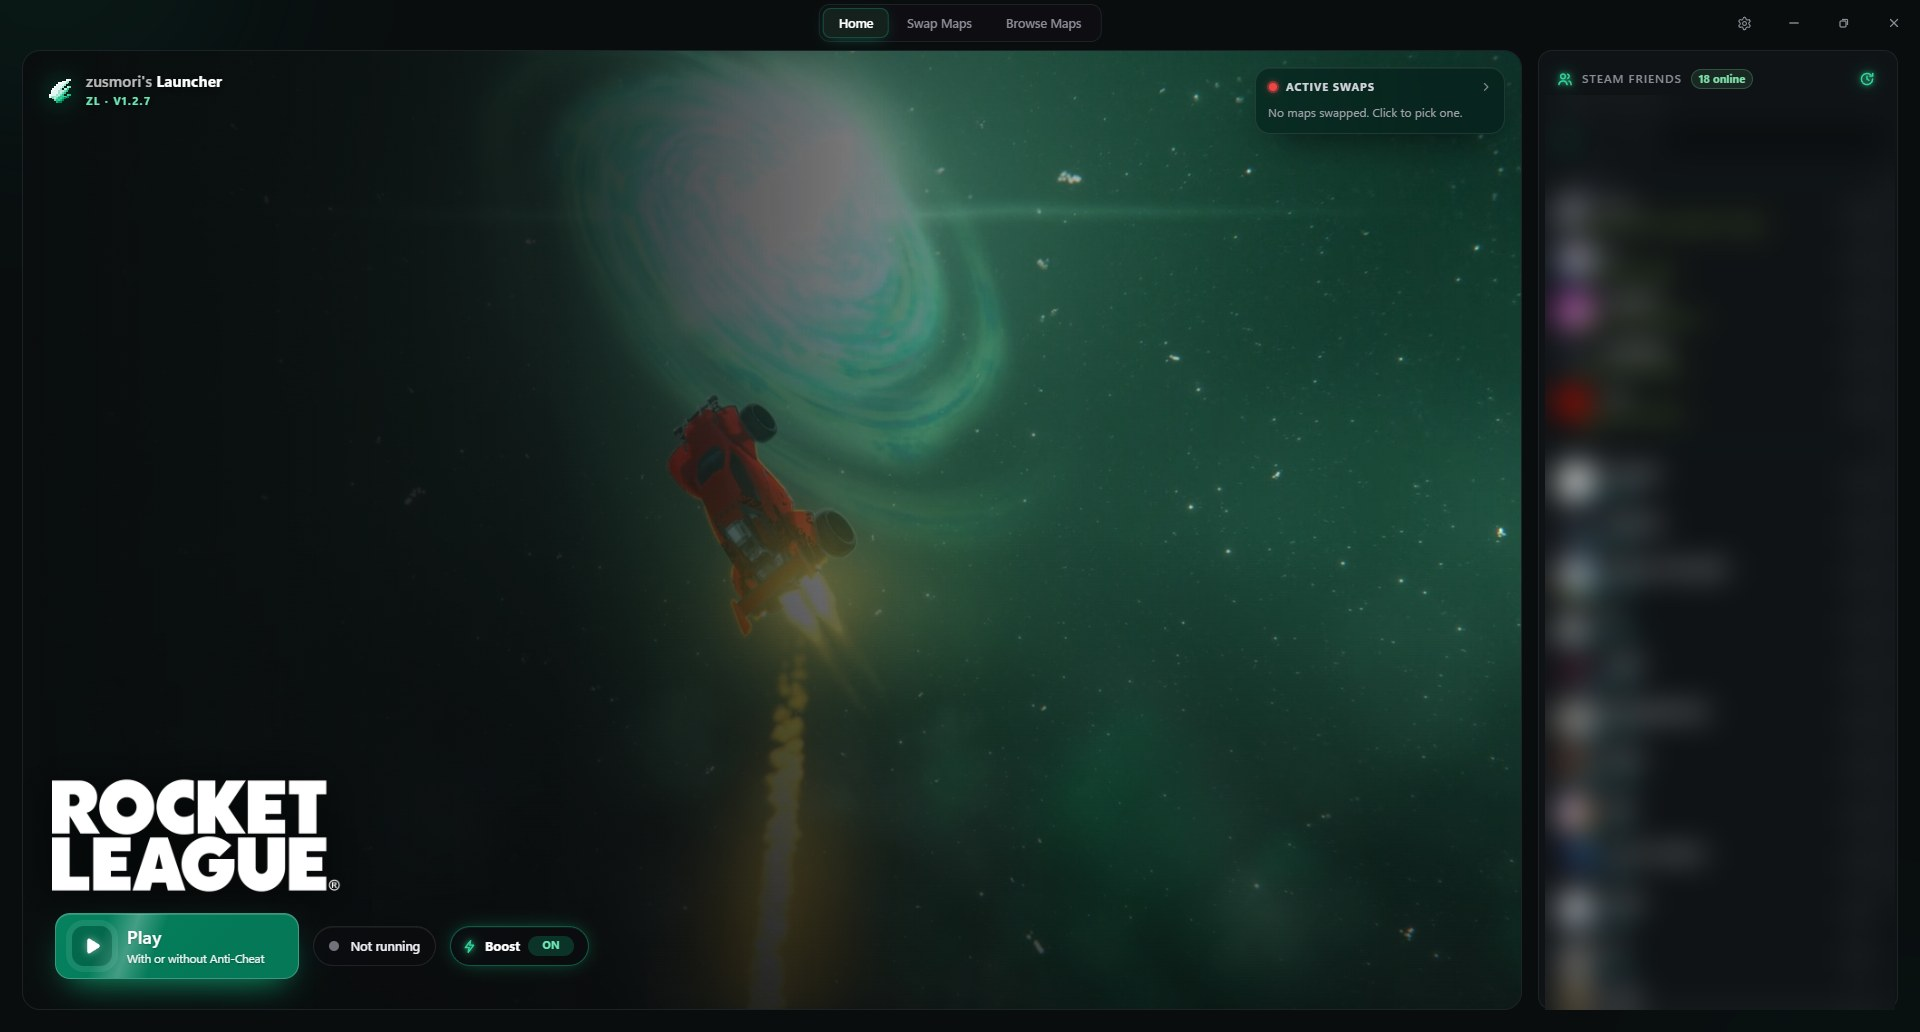
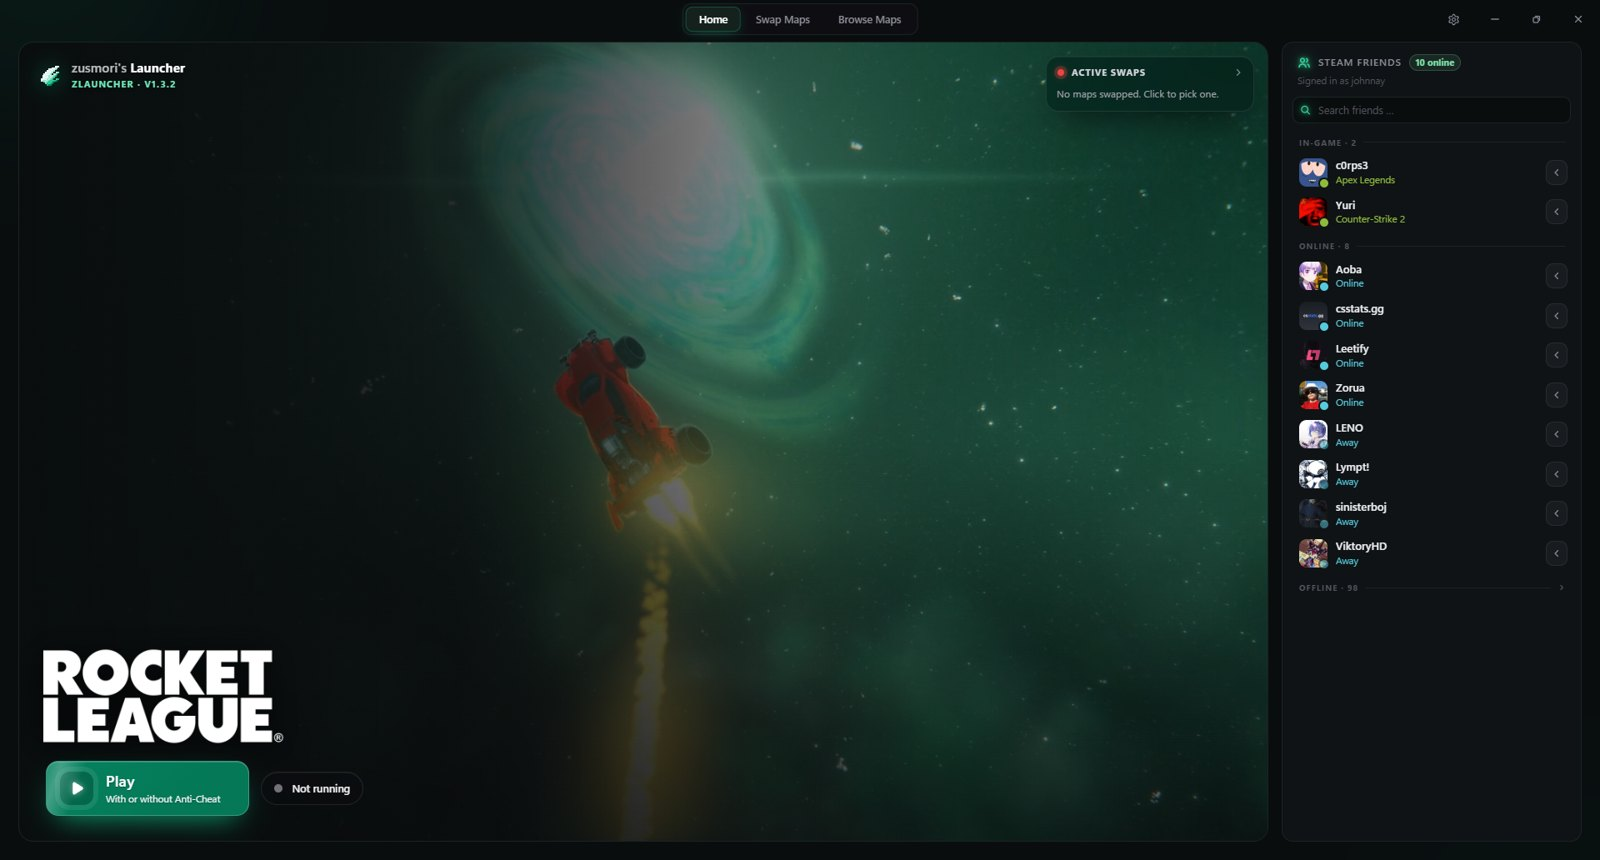
v1.3.3: close game button, name is ZLauncher everywhere, README with new screenshots

diff --git a/ui.html b/ui.html
@@ -2,7 +2,7 @@
 <html lang="en">
 <head>
 <meta charset="utf-8">
-<title>zusmori's Launcher</title>
+<title>ZLauncher</title>
 <style>
   :root{
     /* Akzentfarbe (wird ueber die Settings getauscht) */
@@ -794,6 +794,13 @@
   .hstat .dot{--c:113 113 122;animation:none;box-shadow:none}
   .hstat.run .dot{--c:126 226 168;animation:pulse 2.2s cubic-bezier(.4,0,.6,1) infinite}
   .hstat.eac .dot{--c:var(--ac2-rgb)}
+  .hclose{display:flex;align-items:center;gap:8px;height:40px;padding:0 15px;border-radius:999px;font:inherit;font-size:12.5px;font-weight:600;color:#f3c1c8;cursor:pointer;
+    background:rgb(12 12 16 / .45);border:1px solid rgba(247,161,173,.22);-webkit-backdrop-filter:blur(14px);backdrop-filter:blur(14px);
+    opacity:0;transform:translateX(-8px) scale(.96);pointer-events:none;
+    transition:opacity .3s var(--ease),transform .35s var(--spring),background .2s,border-color .2s,color .2s}
+  .hclose.on{opacity:1;transform:none;pointer-events:auto}
+  .hclose:hover{background:rgba(247,161,173,.14);border-color:rgba(247,161,173,.45);color:#fff}
+  .hclose.busy{opacity:.55;pointer-events:none}
   .hbtns{display:flex;gap:12px;flex-wrap:wrap}
   .lbtn{position:relative;overflow:hidden;display:flex;align-items:center;gap:13px;height:62px;padding:0 22px 0 16px;border-radius:15px;cursor:pointer;
     border:1px solid var(--line2);background:rgb(15 15 18 / .7);backdrop-filter:blur(10px);color:var(--text);font:inherit;text-align:left;
@@ -1339,7 +1346,7 @@
         <div class="hshade"></div>
         <div class="hbrand">
           <svg id="heroBrand" viewBox="0 0 16 16" shape-rendering="crispEdges" aria-hidden="true"></svg>
-          <div class="hbt"><b><span>zusmori's</span> Launcher</b><small id="hVer">ZLauncher</small></div>
+          <div class="hbt"><b>ZLauncher</b><small id="hVer">Rocket League Launcher</small></div>
         </div>
         <button class="hswap" id="hSwap" title="Show in Swap Maps">
           <div class="hsh"><span class="dot"></span><b>Active swaps</b><span class="hsn" id="hSwapN"></span>
@@ -1352,6 +1359,7 @@
           <div class="hrow">
             <button class="lbtn pri play" id="playBtn"><span class="li"><span class="gi" data-ic="play"></span></span><span><b>Play</b><small id="playSub">With or without Anti-Cheat</small></span></button>
             <div class="hstat" id="hStat"><span class="dot"></span><span id="hStatTx">Checking …</span></div>
+            <button class="hclose" id="hClose" title="Close Rocket League"><svg width="12" height="12" viewBox="0 0 12 12"><path d="M2.5 2.5l7 7M9.5 2.5l-7 7" stroke="currentColor" stroke-width="1.6" stroke-linecap="round"/></svg><span>Close game</span></button>
           </div>
         </div>
       </div>
@@ -1636,7 +1644,7 @@
       </div></div>
       <div class="ssec"><h4>About</h4><div class="sgrp">
         <div class="about"><svg id="setLogo" viewBox="0 0 16 16" shape-rendering="crispEdges" aria-hidden="true"></svg>
-          <div class="tx"><b>zusmori's Launcher</b><small id="verLbl">Version –</small></div>
+          <div class="tx"><b>ZLauncher</b><small id="verLbl">Version –</small></div>
           <button class="sbtn" id="verCheck"><span class="gi" data-ic="year"></span><span class="vtx">Check for updates</span></button></div>
         <div class="alinks"><a id="lnkGit">GitHub</a><span>·</span><a id="lnkRel">Release notes</a><span>·</span><span>Support on Discord: <b>zusmori</b></span></div>
       </div></div>
@@ -2718,7 +2726,7 @@ document.addEventListener('keydown', e => {
   else if ($('setDlg').classList.contains('show') && !$('updDlg').classList.contains('show')) closeSettings();
   else if ($('updDlg').classList.contains('show')) $('updLater').onclick();
 });
-(async () => { try { if (has('getVersion')){ const v = await getVersion(); $('verLbl').textContent = 'Version ' + v; $('hVer').textContent = 'ZLauncher · v' + v; } } catch (e) {} })();
+(async () => { try { if (has('getVersion')){ const v = await getVersion(); $('verLbl').textContent = 'Version ' + v; $('hVer').textContent = 'Version ' + v; } } catch (e) {} })();
 
 /* ---------- Home: Rocket League Logo (aus dem Steam-Cache) ---------- */
 (async () => {
@@ -2797,6 +2805,7 @@ function paintRL(st){
   else if (!st.found){ tx.innerHTML = '<b>Rocket League not found</b> · set the folder under Swap Maps'; }
   else tx.innerHTML = '<b>Not running</b>' + (st.steam ? '' : ' · Steam is closed');
   if (!st.running) home.since = null;
+  const hc = $('hClose'); hc.classList.toggle('on', !!st.running); if (!st.running) hc.classList.remove('busy');
   if (st.running && home.launching){ home.launching = null; Sfx.ui('done'); }
   const b = $('playBtn');
   b.classList.toggle('busy', !!home.launching);
@@ -2828,6 +2837,13 @@ async function launch(eac, force){
     toast(e, false);
   }
 }
+// Spiel schliessen (unten links, nur solange RL laeuft)
+$('hClose').onclick = async () => {
+  const b = $('hClose'); if (b.classList.contains('busy')) return;
+  b.classList.add('busy'); Sfx.ui('dismiss');
+  try { if (has('closeRL')) await closeRL(); } catch (e) { b.classList.remove('busy'); toast(e, false); }
+  setTimeout(pollRL, 1500); setTimeout(pollRL, 4000); setTimeout(pollRL, 9000);
+};
 // Auswahl: mit oder ohne Anti-Cheat
 function openPlay(){
   if (home.launching || (home.st && home.st.running)) return;

diff --git a/home.go b/home.go
@@ -21,7 +21,9 @@ import (
 	"strings"
 	"sync"
 	"time"
+	"unsafe"
 
+	"golang.org/x/sys/windows"
 	"golang.org/x/sys/windows/registry"
 )
 
@@ -524,4 +526,56 @@ func vdfStr(m map[string]interface{}, key string) string {
 		}
 	}
 	return ""
+}
+
+// Rocket League schliessen: erst freundlich (Fenster schliessen), nach ein paar Sekunden notfalls beenden.
+func closeRL() error {
+	pids := processIDs("RocketLeague.exe")
+	if len(pids) == 0 {
+		return errors.New("Rocket League isn't running.")
+	}
+	for _, pid := range pids {
+		p := pid
+		cb := windows.NewCallback(func(h uintptr, _ uintptr) uintptr {
+			var wp uint32
+			pGetWindowThreadPI.Call(h, uintptr(unsafe.Pointer(&wp)))
+			if wp == p {
+				pPost.Call(h, 0x0010, 0, 0) // WM_CLOSE
+			}
+			return 1
+		})
+		pEnumWindows.Call(cb, 0)
+	}
+	go func() {
+		for i := 0; i < 40; i++ { // bis zu 8 s warten
+			time.Sleep(200 * time.Millisecond)
+			if !rlRunning() {
+				return
+			}
+		}
+		for _, pid := range processIDs("RocketLeague.exe") {
+			if h, err := windows.OpenProcess(windows.PROCESS_TERMINATE, false, pid); err == nil {
+				windows.TerminateProcess(h, 0)
+				windows.CloseHandle(h)
+			}
+		}
+	}()
+	return nil
+}
+
+func processIDs(name string) []uint32 {
+	var out []uint32
+	snap, err := windows.CreateToolhelp32Snapshot(windows.TH32CS_SNAPPROCESS, 0)
+	if err != nil {
+		return out
+	}
+	defer windows.CloseHandle(snap)
+	var e windows.ProcessEntry32
+	e.Size = uint32(unsafe.Sizeof(e))
+	for err = windows.Process32First(snap, &e); err == nil; err = windows.Process32Next(snap, &e) {
+		if strings.EqualFold(windows.UTF16ToString(e.ExeFile[:]), name) {
+			out = append(out, e.ProcessID)
+		}
+	}
+	return out
 }

diff --git a/main.go b/main.go
@@ -528,7 +528,7 @@ func open(target string) {
 func msgBox(text string) {
 	user32 := windows.NewLazySystemDLL("user32.dll")
 	t, _ := windows.UTF16PtrFromString(text)
-	c, _ := windows.UTF16PtrFromString("zusmori's Launcher")
+	c, _ := windows.UTF16PtrFromString("ZLauncher")
 	user32.NewProc("MessageBoxW").Call(0, uintptr(unsafe.Pointer(t)), uintptr(unsafe.Pointer(c)), 0x40)
 }
 
@@ -550,7 +550,7 @@ func main() {
 		AutoFocus: true,
 		DataPath:  filepath.Join(dataDir, "webview"),
 		WindowOptions: webview2.WindowOptions{
-			Title:  "zusmori's Launcher",
+			Title:  "ZLauncher",
 			Width:  winW,
 			Height: winH,
 			IconId: 1,
@@ -558,7 +558,7 @@ func main() {
 		},
 	})
 	if w == nil {
-		msgBox("zusmori's Launcher needs the Microsoft Edge WebView2 Runtime.\n\nDownload it for free from Microsoft (search: \"WebView2 Runtime\") and start the app again.")
+		msgBox("ZLauncher needs the Microsoft Edge WebView2 Runtime.\n\nDownload it for free from Microsoft (search: \"WebView2 Runtime\") and start the app again.")
 		return
 	}
 	defer w.Destroy()
@@ -718,6 +718,7 @@ func main() {
 	w.Bind("setPresenceCtx", func(starting bool, maps int) { setPresenceCtx(starting, maps) })
 	w.Bind("setBoost", func(on bool) BoostStatus { return setBoost(on) })
 	w.Bind("launchRL", func(eac bool) error { return app.LaunchRL(eac) })
+	w.Bind("closeRL", func() error { return closeRL() })
 	w.Bind("friendsAsync", func(cb int, key string) {
 		go func() {
 			res, err := steamFriends(key)

diff --git a/tray.go b/tray.go
@@ -98,7 +98,7 @@ func trayAdd(hwnd uintptr) {
 	d.UFlags = nifMessage | nifIcon | nifTip
 	d.UCallbackMessage = wmTray
 	d.HIcon = trayIcon
-	setUTF16(d.SzTip[:], "zusmori's Launcher")
+	setUTF16(d.SzTip[:], "ZLauncher")
 	r, _, _ := pNotify.Call(nimAdd, uintptr(unsafe.Pointer(&d)))
 	trayOn = r != 0
 }

diff --git a/README.md b/README.md
@@ -3,29 +3,29 @@
 </p>
 
 <h1 align="center">ZLauncher</h1>
-<p align="center"><b>zusmori's Launcher</b> · a Rocket League launcher for Windows</p>
+<p align="center">A Rocket League launcher for Windows</p>
 
 <p align="center">
   <a href="../../releases/latest"><b>⬇ Download the latest version</b></a>
 </p>
 
 <p align="center">
-  <img src="assets/home.jpg" width="880" alt="ZLauncher Home tab">
+  <img src="assets/home.jpg" width="880" alt="ZLauncher Home">
 </p>
 
 ## Features
 
-- **Play** – start Rocket League with Anti-Cheat (online) or without (Freeplay and workshop maps).
+- **Play** – start Rocket League with or without Anti-Cheat, close it again with one click.
 - **Friends** – see which Steam friends are online or in a game, live.
 - **Swap Maps** – play any workshop map in Freeplay. **Restore** puts the original arena back.
 - **Browse Maps** – find and download workshop maps right in the app.
-- **Item menu (beta)** – press **F8** in Rocket League to use any item in Freeplay and offline. Only you can see them, only without Anti-Cheat.
-- **Game Boost** – more performance while you play, reset when the game closes.
-- **Discord** – shows your mode and score on your profile, e.g. *2s Ranked · 2 : 1*.
-- 4 colors with video backgrounds, close to tray, automatic updates.
+- **Item menu** – press **F8** in game to use any item, painted versions, your own car colors and presets.
+- **Game Boost** – more performance while you play.
+- **Discord** – shows your mode and score on your profile.
+- Themes, tray mode and automatic updates.
 
 <p align="center">
-  <img src="assets/browse.jpg" width="880" alt="ZLauncher Browse Maps tab">
+  <img src="assets/items.jpg" width="880" alt="ZLauncher item menu in Rocket League">
 </p>
 
 ## Getting started
@@ -36,7 +36,7 @@
 
 ## Good to know
 
-- Workshop maps only work offline and **without Anti-Cheat**.
+- Workshop maps and the item menu only work **without Anti-Cheat**. Items are only visible to you.
 - Needs Windows 10/11 and Rocket League on Steam.
 - Unofficial fan project, not affiliated with Psyonix, Epic Games, Valve or Discord. Use at your own risk.
 
